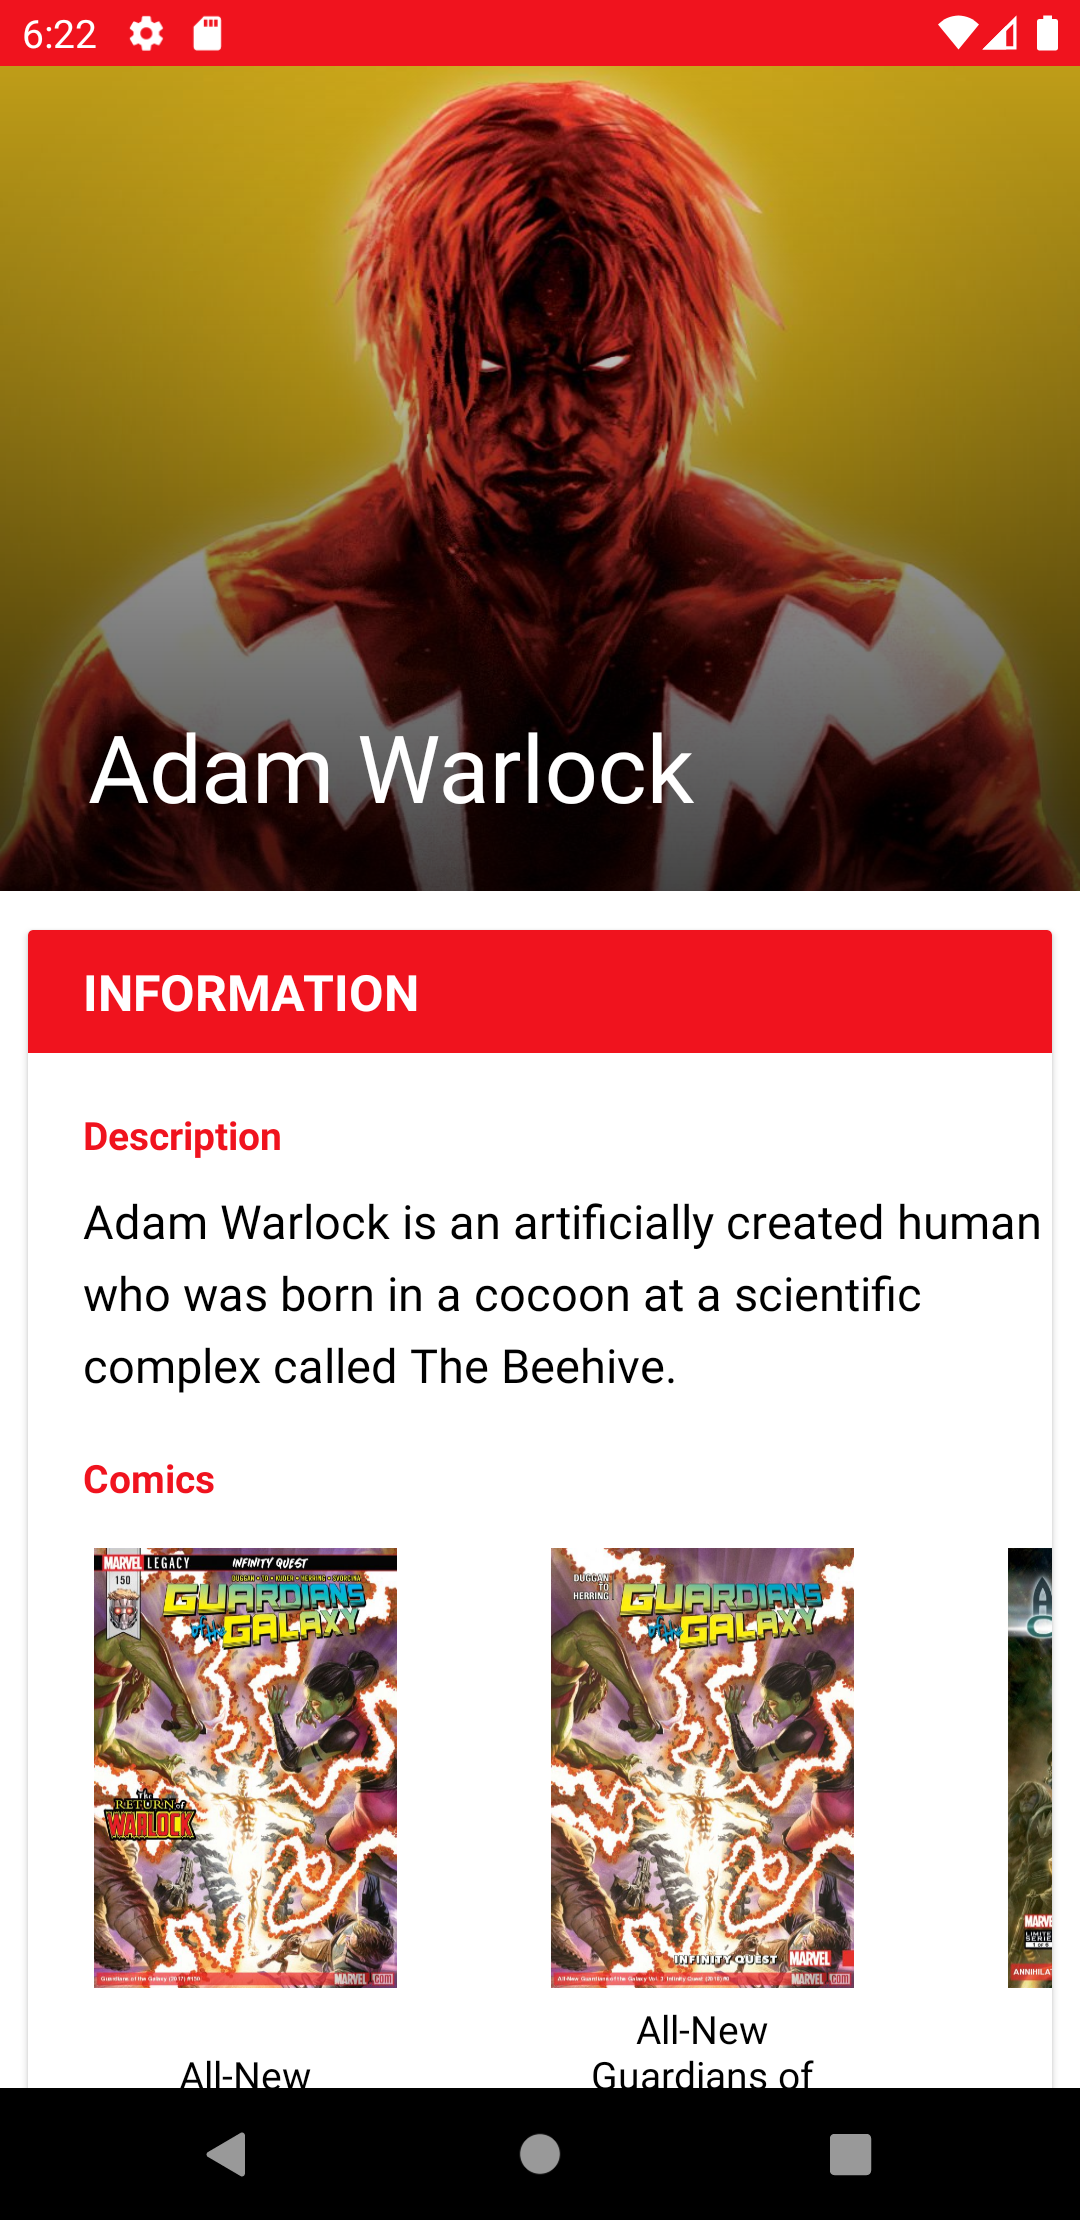
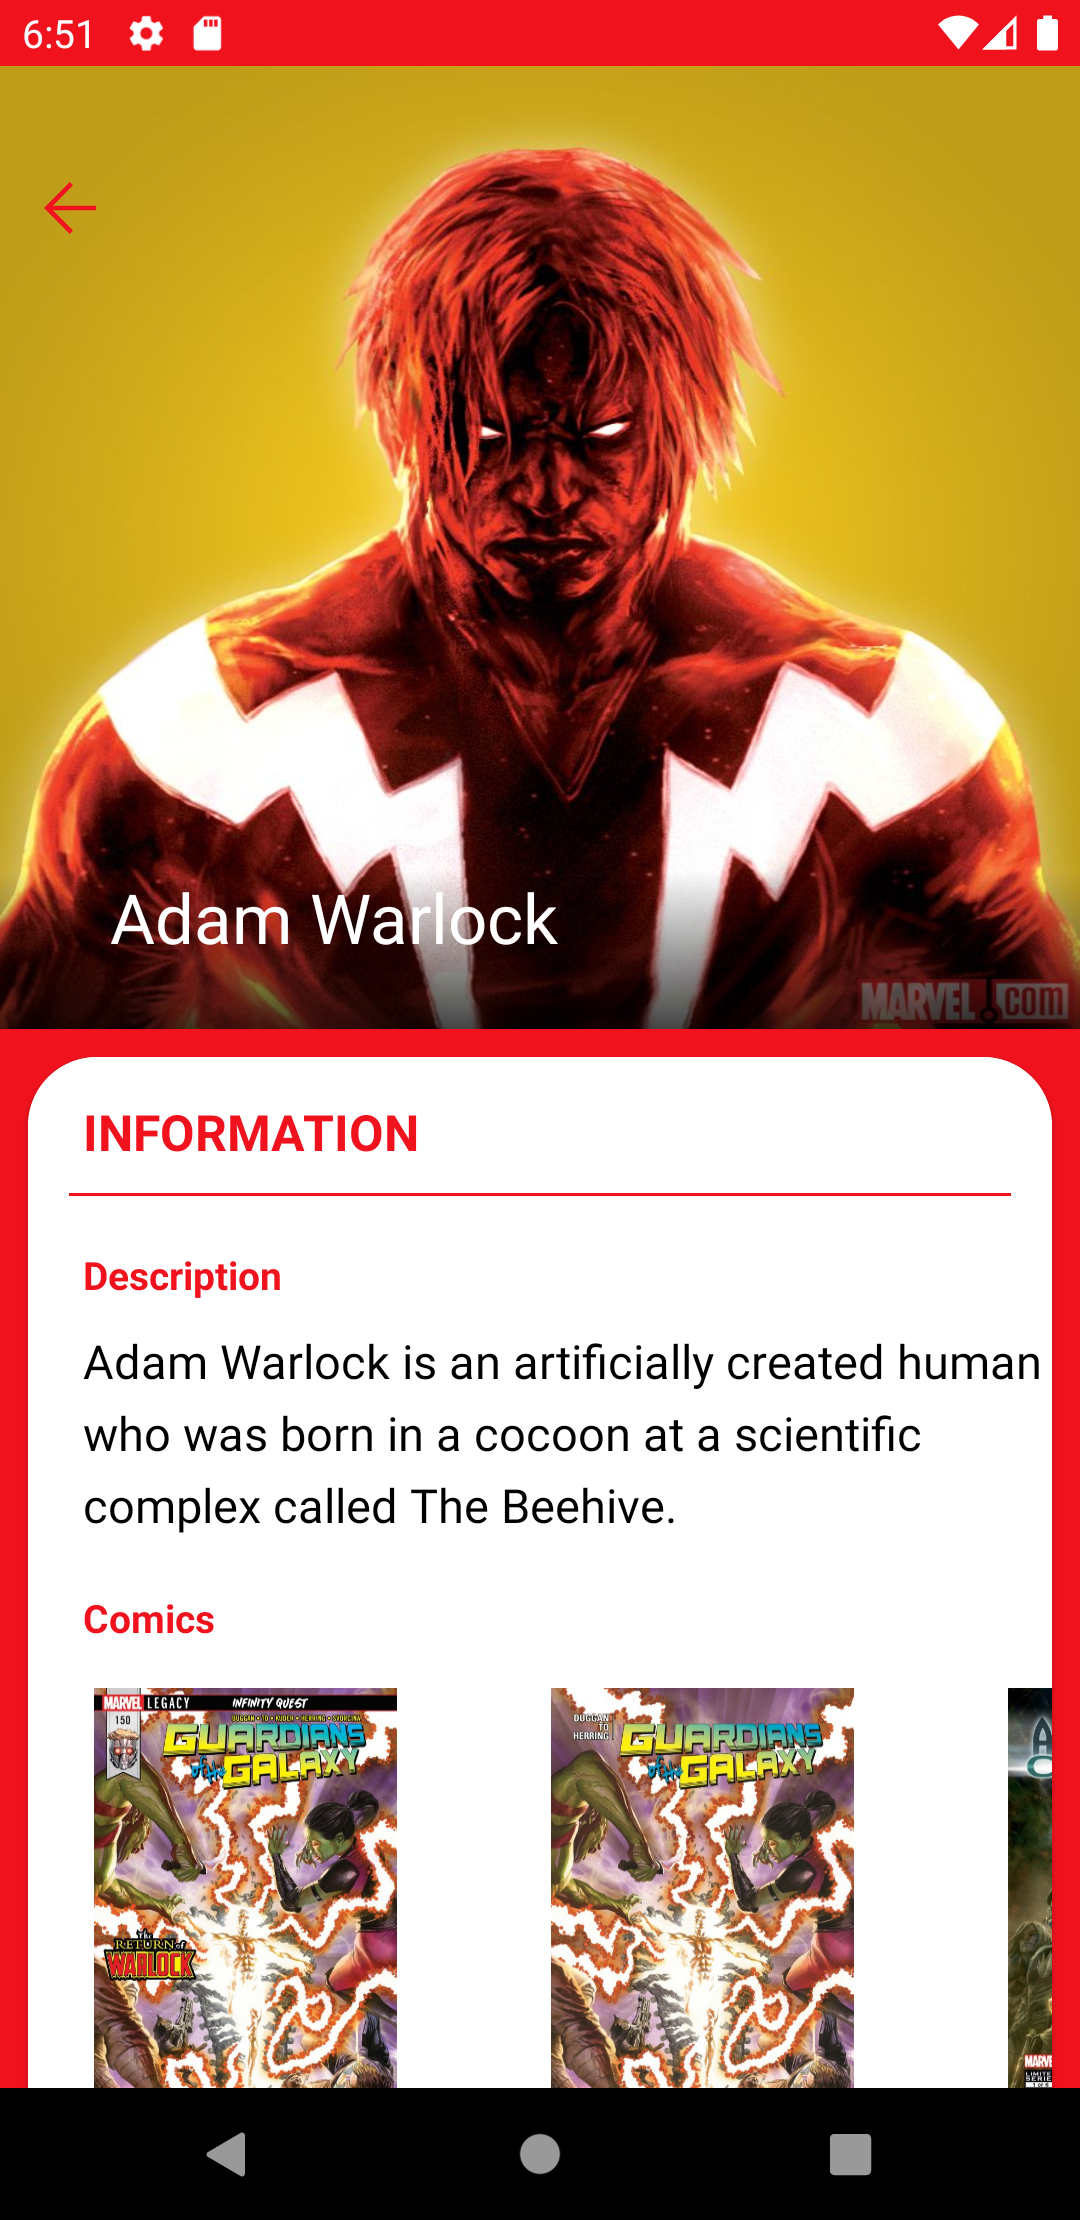
migrated detail screen from coordinatorlayout to motionlayout
and redesigned the screen along with the night theme.

diff --git a/app/src/main/java/com/fgdc/marvelcharacters/ui/characterDetail/fragment/CharacterDetailFragment.kt b/app/src/main/java/com/fgdc/marvelcharacters/ui/characterDetail/fragment/CharacterDetailFragment.kt
@@ -64,12 +64,19 @@ class CharacterDetailFragment : BaseFragment() {
     private fun setCharacterDetail(characterDetailView: CharacterDetailView?) {
         characterDetailView?.let {
             binding.characterImage.simpleLoad(characterDetailView.image, requireContext())
-            binding.toolbarCharacter.title = characterDetailView.name
+            binding.toolbarTitle.text = characterDetailView.name
+            binding.title.text = characterDetailView.name
             if (characterDetailView.description.isNotEmpty()) {
                 binding.characterDescription.text = characterDetailView.description
             } else {
                 binding.characterDescription.visibility = View.GONE
                 binding.characterDescriptionLabel.visibility = View.GONE
+            }
+            binding.backButton.setOnClickListener{
+                findNavController().navigateUp()
+            }
+            binding.backButtonSecondary.setOnClickListener{
+                findNavController().navigateUp()
             }
         }
     }
